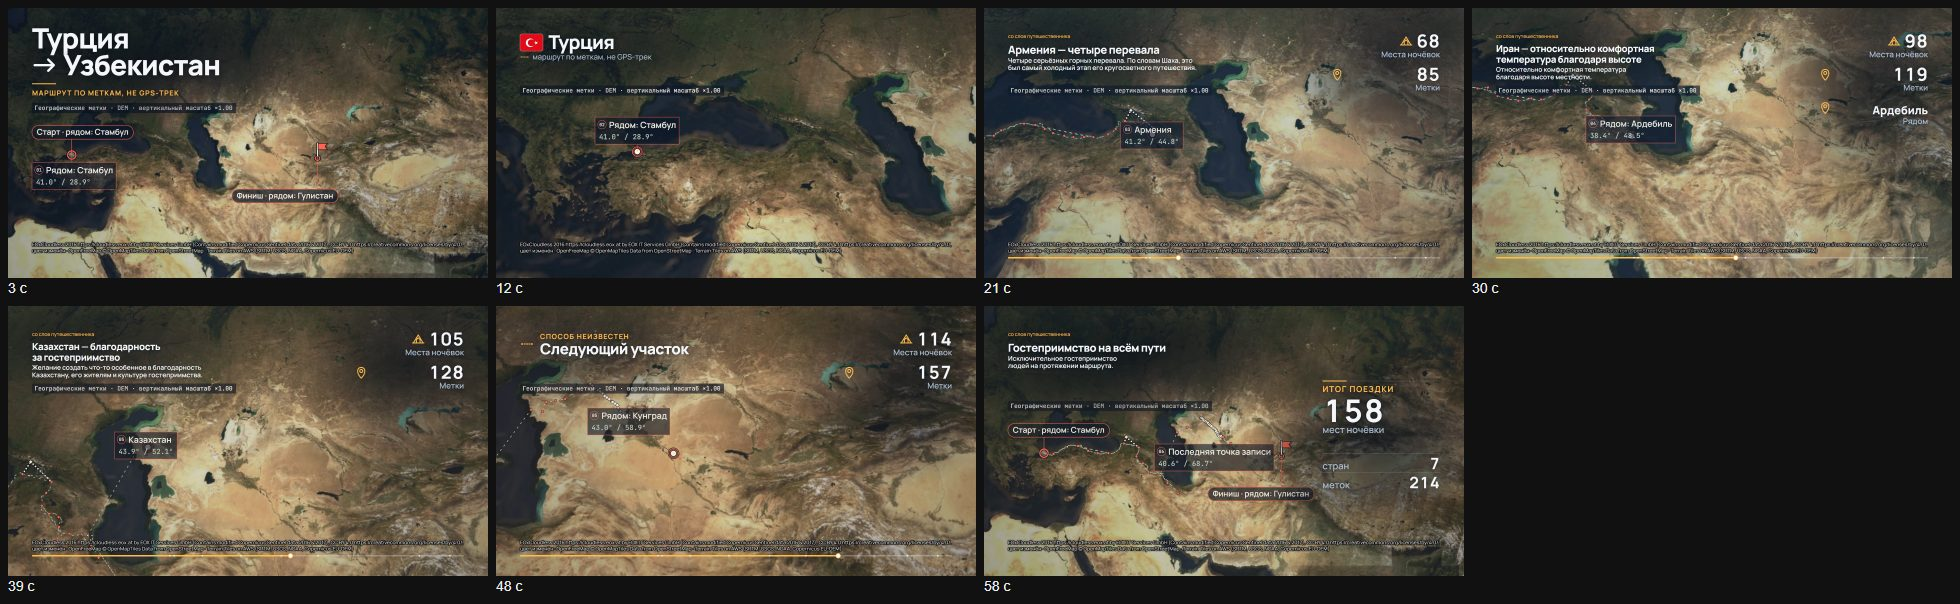
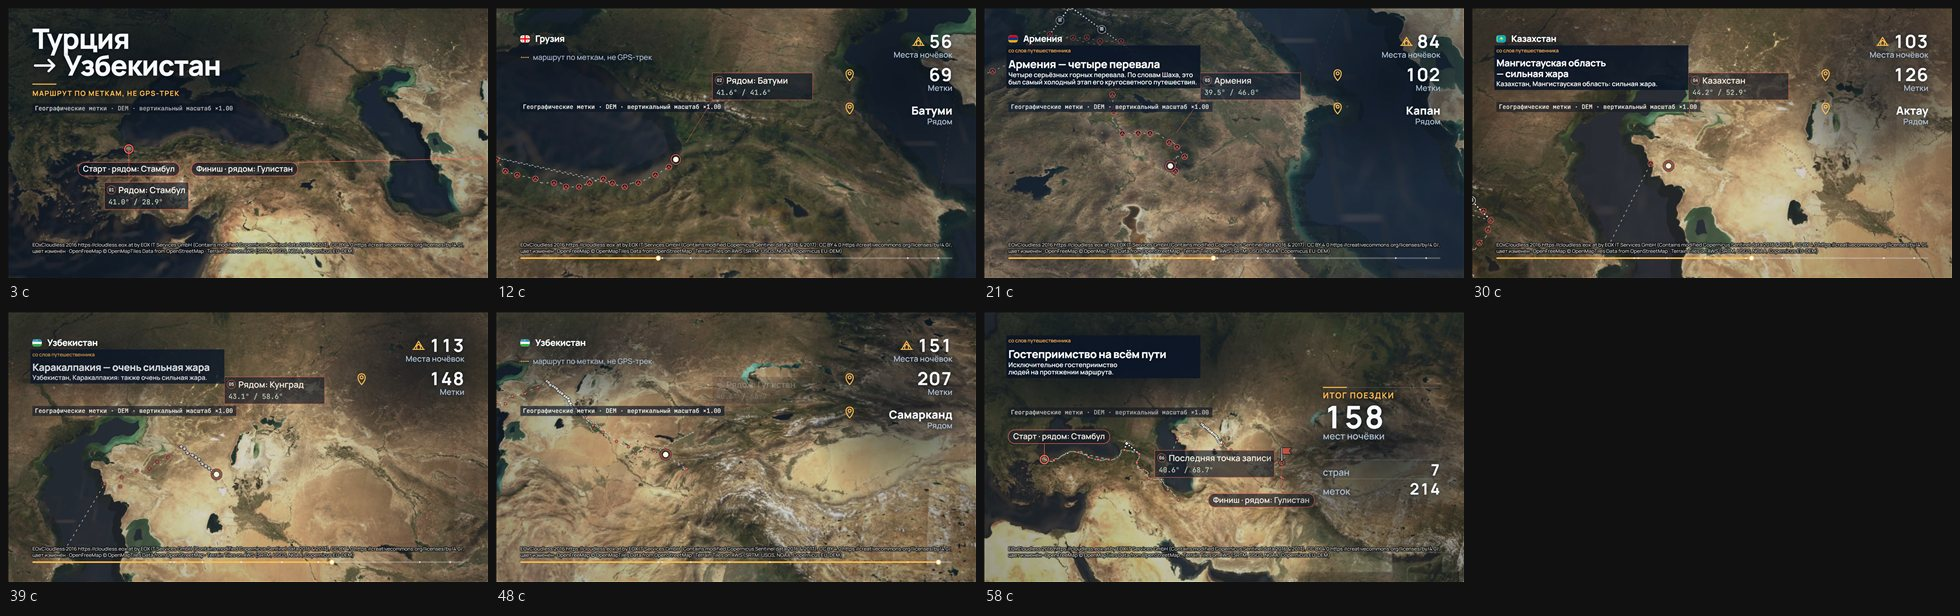
Документы и кадры финальной пары 16.10; конфигурация агентов не публикуется (снимок master 302d0a3)

diff --git a/docs/submission/test-results.md b/docs/submission/test-results.md
@@ -1,26 +1,26 @@
-# Результаты проверок — 15.10.2026
+# Результаты проверок — 16.10.2026
 
-Windows 11, Node 24.15, Edge 155, итоговый рабочий `master`.
+Windows 11, Node 24.15, Edge 155, итоговый рабочий `master`; публичный `main` — его снимок.
 
 | Проверка | Команда | Результат |
 |---|---|---|
-| TypeScript + Vitest | `npm run check` | **75 файлов, 842 passed**, несколько полных прогонов подряд без падений. |
+| TypeScript + Vitest | `npm run check` | **75 файлов, 842 passed, 1 skipped**, несколько полных прогонов подряд без падений. |
 | Сборка | `npm run build` | успешно (`dist/`, относительные пути). |
 | Сквозные проверки интерфейса и экспорта, Playwright в Edge | `npm run test:e2e` | **28/28 passed** (13,8 мин). |
 | Обновление Live URL | [GitHub Pages](https://romario499.github.io/route-story-engine/) | Обновлён 15.10.2026, деплой GitHub Actions — success. Проверено в браузере: пример загружается, превью играет, экспорт 15 с 9:16 — «Ролик готов» за 18 с (19,0 МБ), ошибок в консоли нет. |
 
-Плавающее падение `check` (тест подписей интро/финала упирался в таймаут 20 с при параллельном прогоне 71 файла, воспроизводилось и на прежнем master) устранено: матрица комбинаций разложена на отдельные тесты, проверки и таймаут не менялись.
+Плавающее падение `check` (тест подписей интро/финала упирался в таймаут 20 с при полном параллельном прогоне, воспроизводилось и на прежнем master) устранено: матрица комбинаций разложена на отдельные тесты, проверки и таймаут не менялись.
 
 ## Финальная пара подачи
 
 Снята через настоящий интерфейс в Edge: маршрут по меткам Organic Maps с явным подтверждением порядка, файл глав, стиль «Экспедиция», RU, 60 с. Каждый файл полностью декодирован `VideoDecoder` в Edge и открыт плеером.
 
-| Файл | Кадр | Длительность | Кадров декодировано / пустых | Время экспорта |
+| Файл | Кадр | Длительность | Кадров декодировано / всего / пустых | Время экспорта |
 |---|---|---|---|---|
-| [route-story-final-9x16.mp4](../../exports/submission/route-story-final-9x16.mp4) | 1080×1920, H.264 30 к/с | 60,00 с | 1800 / 0 | 43 с |
-| [route-story-final-16x9.mp4](../../exports/submission/route-story-final-16x9.mp4) | 1920×1080, H.264 30 к/с | 60,00 с | 1800 / 0 | 45 с |
+| [route-story-final-9x16.mp4](../../exports/submission/route-story-final-9x16.mp4) | 1080×1920, H.264 30 к/с | 60,00 с | 1800 / 1800 / 0 | 43 с |
+| [route-story-final-16x9.mp4](../../exports/submission/route-story-final-16x9.mp4) | 1920×1080, H.264 30 к/с | 60,00 с | 1800 / 1800 / 0 | 45 с |
 
-Финальная пара снята 16.10 после доработки камеры и глав (крупные планы, выноски, плашки стран). Прежняя пара 15.10 сохранена без изменений: [9:16](../../exports/submission/route-story-9x16.mp4), [16:9](../../exports/submission/route-story-16x9.mp4); кадры 3/12/21/30/39/48/58 с прежней пары: [9:16](frames-9x16.jpg), [16:9](frames-16x9.jpg). Ошибок экспорта и предупреждений о тайлах нет. Отдельно снят «обзор по меткам» 16:9 (точки без линий и без порядка) — 1800 / 0, в подачу не входит.
+Финальная пара снята 16.10 после доработки камеры и глав: история начинается раньше, плашки всех 7 стран держатся ≥ 90 кадров каждая, выноски глав — 3–5,5 с в обоих форматах, крупные планы глав — в 16:9, раскладка без перекрытий. `check-final` — **22/22**. Прежняя пара 15.10 сохранена без изменений: [9:16](../../exports/submission/route-story-9x16.mp4), [16:9](../../exports/submission/route-story-16x9.mp4). Кадры 3/12/21/30/39/48/58 с финальной пары: [9:16](frames-9x16.jpg), [16:9](frames-16x9.jpg). Ошибок экспорта и предупреждений о тайлах нет. Отдельно снят «обзор по меткам» 16:9 (точки без линий и без порядка) — 1800 / 0, в подачу не входит.
 
 Содержание: Турция → Грузия → Армения → Иран → Казахстан → Узбекистан → Таджикистан → Узбекистан (7 стран, 214 меток, 158 мест ночёвки), главы «со слов путешественника», в кадре пометка «маршрут по меткам, не GPS-трек»; километража и скорости нет. Координаты в кадре — сетка 0,1° выборки, не точные места.
 

diff --git a/docs/submission/submission.md b/docs/submission/submission.md
@@ -14,19 +14,19 @@
 | [route-story-final-9x16.mp4](../../exports/submission/route-story-final-9x16.mp4) | 1080×1920, 9:16 | 60 с | Путешествие @wahrier, «Экспедиция». |
 | [route-story-final-16x9.mp4](../../exports/submission/route-story-final-16x9.mp4) | 1920×1080, 16:9 | 60 с | То же путешествие в горизонтальной композиции. |
 
-Основа финальной пары — реальные метки Organic Maps путешественника @wahrier, Турция → Узбекистан, с главами «со слов путешественника». Публикация производных роликов разрешена путешественником. Исходные файлы маршрута, координаты и тексты глав в репозиторий не входят. Статус замены файлов и проверки финальной пары — в [результатах](test-results.md).
+Основа финальной пары — реальные метки Organic Maps путешественника @wahrier, Турция → Узбекистан (7 стран, 214 меток, 158 мест ночёвки), с главами «со слов путешественника». Публикация производных роликов разрешена путешественником. Исходные файлы маршрута, координаты и тексты глав в репозиторий не входят. Результаты проверки финальной пары 16.10 — в [результатах](test-results.md).
 
 ## Как работает история
 
 1. **ROUTE:** импорт маршрута; для Organic Maps — выбор участка и явное подтверждение порядка закладок. Метки не выдаются за GPS-трек: без километража и скорости. Разрывы настоящего трека не соединяются.
 2. **STYLE:** «Экспедиция» — спутник EOxCloudless 2016 (CC BY 4.0), DEM AWS Terrain и OpenFreeMap; «Атлас» — светлая карта OSM с отмывкой; «Неон» — тёмная карта. Форматы 9:16/16:9, длительности 15/30/45/60 с, RU/EN.
-3. **REPLAY:** камера шести сцен ведёт историю от общего плана к движению и итогу. В кадре — флаги стран, выноски «рядом: город», главы и показатели по доступным данным. Вертикальный масштаб DEM подписан; реконструкция помечена.
+3. **REPLAY:** камера шести сцен ведёт историю от общего плана к движению и итогу. В финальной паре история начинается раньше; плашки всех 7 стран держатся ≥ 90 кадров каждая, выноски глав — 3–5,5 с в обоих форматах, в 16:9 есть крупные планы глав. Раскладка без перекрытий; показатели — по доступным данным. Вертикальный масштаб DEM подписан; реконструкция помечена.
 4. **EXPORT:** общий рендер для превью и видео, покадровая сборка файла в браузере. На защите после экспорта открываем скачанный MP4.
 
 Кнопка «Пример: маршрут @wahrier» на сайте загружает помеченную реконструкцию. Реальные метки конкурсных роликов не встроены в публичный пример.
 
 ## Проверки и материалы
 
-На итоговом master: `npm run check` — **71 файл, 778 passed**; Playwright в Edge — **28/28**; финальные ролики полностью декодированы (1800 / 0 пустых) — см. [результаты](test-results.md).
+Публичный `main` — снимок рабочего `master`. `npm run check` — **75 файлов, 842 passed, 1 skipped**; Playwright в Edge — **28/28**; каждый финальный ролик полностью декодирован (1800/1800 кадров, 0 пустых), `check-final` — **22/22** — см. [результаты](test-results.md).
 
 [Сценарий защиты](demo-script.md) · [результаты проверок](test-results.md) · [ограничения](limitations.md) · [источники и лицензии](sources.md) · [титры видео](video-credits.md) · [соответствие критериям конкурса](../../README.md#соответствие-требованиям-конкурса).

diff --git a/README.md b/README.md
@@ -27,7 +27,7 @@
 
 ## 🎬 Ролики конкурса «Вайбатон · Route Story»
 
-Реальное путешествие **@wahrier** по его меткам Organic Maps: Турция → Грузия → Армения → Иран → Казахстан → Узбекистан → Таджикистан. 7 стран, 214 меток, 158 мест ночёвки, главы «со слов путешественника». Стиль «Экспедиция», 60 с.
+Реальное путешествие **@wahrier** по его меткам Organic Maps: Турция → Грузия → Армения → Иран → Казахстан → Узбекистан → Таджикистан. 7 стран, 214 меток, 158 мест ночёвки, главы «со слов путешественника». Стиль «Экспедиция», 60 с. Финальная пара 16.10: ранний старт истории, плашки всех 7 стран ≥ 90 кадров каждая, выноски глав 3–5,5 с в обоих форматах, крупные планы глав в 16:9 и раскладка без перекрытий.
 
 <table>
 <tr>
@@ -76,10 +76,10 @@
 | Визуал и storytelling — 25% | Три стиля, камера шести сцен, DEM с подписанным вертикальным масштабом, флаги, выноски «рядом: город», главы со слов путешественника, итог поездки. |
 | Реальные данные, маршрут и анимация — 15% | Путешествие @wahrier по меткам Organic Maps. Метки, ночёвки и участки показаны без выдуманного километража; порядок закладок требует подтверждения. |
 | UX — 10% | Загрузка → стиль → Play/replay → экспорт → открытие файла; встроенный пример для быстрого знакомства. |
-| Техника — 10% | Vite + TypeScript strict, MapLibre, Canvas, WebCodecs; без бэкенда. 75 тестовых файлов / 842 passed, e2e Edge 28/28 — [результаты](docs/submission/test-results.md). |
+| Техника — 10% | Vite + TypeScript strict, MapLibre, Canvas, WebCodecs; без бэкенда. 75 тестовых файлов / 842 passed / 1 skipped, e2e Edge 28/28 — [результаты](docs/submission/test-results.md). |
 | Reels/YouTube — 5% | Вертикальный и горизонтальный 1080p, 15/30/45/60 с, RU/EN. Загрузка на платформы отдельно не проверялась. |
 | Демонстрация — 5% | [Сценарий защиты](docs/submission/demo-script.md) с обязательным открытием экспортированного видео. |
-| Live URL, репозиторий + README | Ссылки в начале страницы; материалы подачи — в [docs/submission](docs/submission/). |
+| Live URL, репозиторий + README | Публичный `main` — снимок рабочего `master`; ссылки в начале страницы; материалы подачи — в [docs/submission](docs/submission/). |
 
 ## 🛠 Локальный запуск
 

diff --git a/docs/submission/sources.md b/docs/submission/sources.md
@@ -10,7 +10,7 @@
 | Рельеф (3D и отмывка) | **AWS Terrain Tiles** (Tilezen/Mapzen, формат terrarium), `s3.amazonaws.com/elevation-tiles-prod/terrarium` | открытые данные; атрибуция источников высот «in a place that is reasonable to the medium» (Tilezen `docs/attribution.md`); реестр AWS просит ссылку «Terrain Tiles was accessed on ДАТА from https://registry.opendata.aws/terrain-tiles» (в титрах видео) | для Европы: «Europe terrain data produced using Copernicus data and information funded by the European Union — EU-DEM layers»; «United States 3DEP (formerly NED) and global GMTED2010 and SRTM terrain data courtesy of the U.S. Geological Survey»; «Global ETOPO1 terrain data U.S. National Oceanic and Atmospheric Administration» | вертикальный масштаб ×E (подписан в кадре), отмывка, перспектива |
 | Подписи, дороги, реки, границы | **OpenFreeMap** (сервис) · **OpenMapTiles** (схема) · **OpenStreetMap** (данные) | данные OSM — ODbL 1.0 (https://www.openstreetmap.org/copyright); схема OpenMapTiles — CC BY 4.0; OpenFreeMap — бесплатно, без ключа, «как есть» (https://openfreemap.org/tos/) | «OpenFreeMap © OpenMapTiles Data from OpenStreetMap» | стилизация цветом и прозрачностью |
 
-Строка атрибуции в кадре: `EOxCloudless 2016 https://cloudless.eox.at by EOX IT Services GmbH (Contains modified Copernicus Sentinel data 2016 & 2017), CC BY 4.0 https://creativecommons.org/licenses/by/4.0/, цвет изменён · OpenFreeMap © OpenMapTiles Data from OpenStreetMap · Terrain Tiles on AWS (SRTM, USGS, NOAA, Copernicus EU-DEM)` — фактический текст см. в [src/render/styles.ts](../../src/render/styles.ts). Старые контактные листы не подтверждают финальные ролики; статус их проверки — в [test-results.md](test-results.md).
+Строка атрибуции в кадре: `EOxCloudless 2016 https://cloudless.eox.at by EOX IT Services GmbH (Contains modified Copernicus Sentinel data 2016 & 2017), CC BY 4.0 https://creativecommons.org/licenses/by/4.0/, цвет изменён · OpenFreeMap © OpenMapTiles Data from OpenStreetMap · Terrain Tiles on AWS (SRTM, USGS, NOAA, Copernicus EU-DEM)` — фактический текст см. в [src/render/styles.ts](../../src/render/styles.ts). Раскадровки [9:16](frames-9x16.jpg) и [16:9](frames-16x9.jpg) обновлены кадрами финальной пары 16.10; результаты проверки — в [test-results.md](test-results.md).
 
 **Esri World Imagery больше не используется** ни в одном стиле: по опубликованным условиям Esri слой допустим только с ПО Esri или подпиской ArcGIS Online, которых у проекта нет (ADR 0008).
 

diff --git a/docs/submission/demo-script.md b/docs/submission/demo-script.md
@@ -17,4 +17,4 @@
 
 [9:16](../../exports/submission/route-story-final-9x16.mp4) и [16:9](../../exports/submission/route-story-final-16x9.mp4) — по **60 с**, стиль «Экспедиция», реальное путешествие @wahrier по меткам Organic Maps, Турция → Узбекистан, с главами «со слов путешественника». Публикация разрешена путешественником; исходные данные и тексты глав не входят в репозиторий.
 
-Перед защитой сохранить финальную пару локально и открыть оба файла. При недоступной сети показать их как готовый результат; живую цепочку импорта и экспорта демонстрировать при доступной карте. Статус финальных файлов — [test-results.md](test-results.md), полные титры для описания видео — [video-credits.md](video-credits.md).
+Перед защитой сохранить финальную пару 16.10 локально и открыть оба файла. Показать ранний старт истории, плашки стран, выноски глав и крупные планы глав в 16:9 без перекрытий. При недоступной сети показать их как готовый результат; живую цепочку импорта и экспорта демонстрировать при доступной карте. Проверки финальных файлов — [test-results.md](test-results.md), полные титры для описания видео — [video-credits.md](video-credits.md).

diff --git a/docs/submission/limitations.md b/docs/submission/limitations.md
@@ -1,4 +1,4 @@
-# Известные ограничения — 15.10.2026
+# Известные ограничения — 16.10.2026
 
 ## Карта и рельеф
 
@@ -25,4 +25,4 @@
 
 ## Материалы подачи
 
-Финальные [9:16](../../exports/submission/route-story-final-9x16.mp4) и [16:9](../../exports/submission/route-story-final-16x9.mp4) — путешествие @wahrier по меткам Organic Maps, стиль «Экспедиция», по 60 с. Публикация роликов разрешена путешественником. Исходные файлы маршрута, координаты и тексты глав не входят в репозиторий. Проверка новых файлов после замены и обновлённого сайта отражается отдельно в [результатах](test-results.md).
+Финальные [9:16](../../exports/submission/route-story-final-9x16.mp4) и [16:9](../../exports/submission/route-story-final-16x9.mp4) — путешествие @wahrier по меткам Organic Maps, стиль «Экспедиция», по 60 с. Публикация роликов разрешена путешественником. Исходные файлы маршрута, координаты и тексты глав не входят в репозиторий. Результаты проверки финальной пары 16.10 и история проверки сайта — в [результатах](test-results.md).
